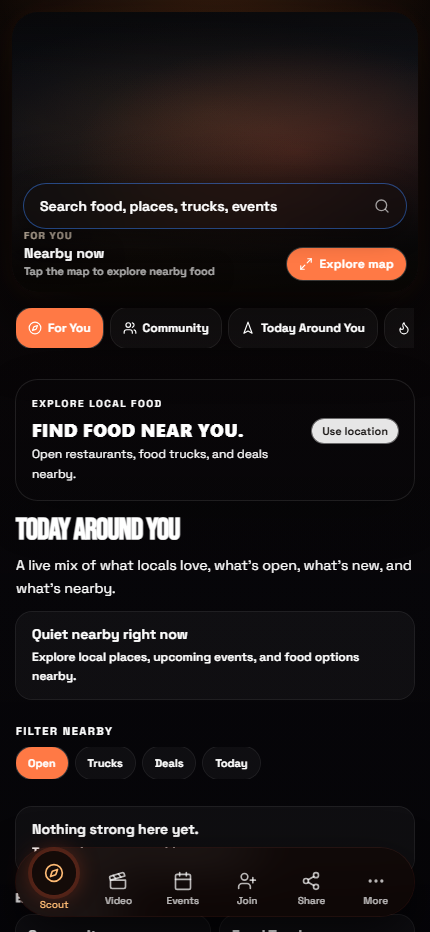
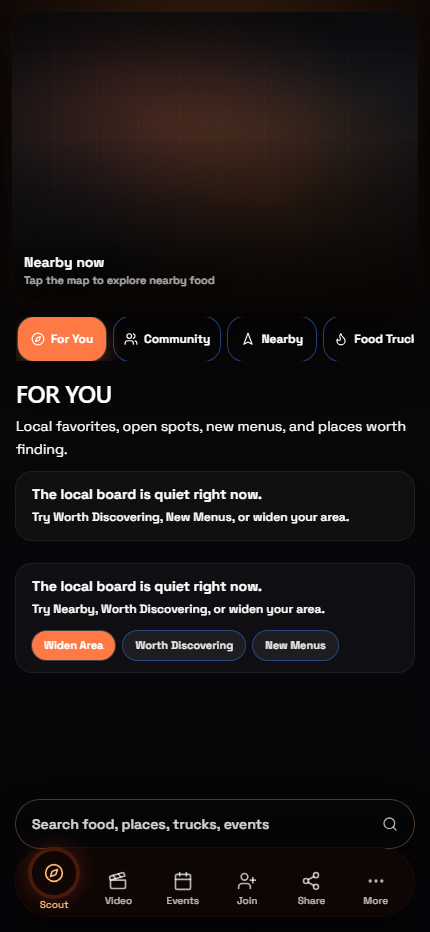
asd

diff --git a/client/src/pages/explore-preview.tsx b/client/src/pages/explore-preview.tsx
@@ -2674,6 +2674,10 @@ export default function ExplorePreview() {
     (sceneWantsNewMenus && localMenuItems.length > 0) ||
     (sceneWantsWorthDiscovering && visibleMoreFoodRestaurants.length > 0) ||
     (sceneWantsCommunity && topLocalFavoriteRestaurants.length > 0);
+  const showForYouWorthFallback =
+    activeSceneLaneId === "for_you" &&
+    sceneMixedFeedItems.length === 0 &&
+    visibleMoreFoodRestaurants.length > 0;
   const collapsedMapSelectedMarker = useMemo(
     () =>
       sceneFilteredMapMarkers.find(
@@ -3023,6 +3027,26 @@ export default function ExplorePreview() {
 
             <SceneMixedFeed items={sceneMixedFeedItems} />
 
+            {showForYouWorthFallback ? (
+              <section className={railSectionClass}>
+                <SectionHeader
+                  title="Worth Discovering"
+                  linkHref={DISCOVERY_LAYERS.restaurants.href}
+                  subtitle="New, quiet, or under-scouted spots nearby."
+                  itemCount={visibleMoreFoodRestaurants.length}
+                />
+                <div className="overflow-x-auto atmo-hide-scrollbar -mr-1">
+                  <ul className="flex gap-4 pr-5" role="list" aria-label="Worth discovering">
+                    {visibleMoreFoodRestaurants.slice(0, 10).map((r) => (
+                      <li key={`for-you-worth-${r.id}`} className={`shrink-0 ${standardCardWidth}`}>
+                        <SavedRestaurantCard restaurant={r} />
+                      </li>
+                    ))}
+                  </ul>
+                </div>
+              </section>
+            ) : null}
+
             {isHighActivity && sceneWantsNearbyNow ? (
               <LocalActivityRail mode={scoutActivityMode} items={visibleLocalActivityItems} />
             ) : null}
@@ -3198,7 +3222,7 @@ export default function ExplorePreview() {
             )}
 
             {/* ── MORE FOOD NEARBY ── */}
-            {showMoreFoodSection && sceneWantsWorthDiscovering && !isLowActivity && (
+            {showMoreFoodSection && sceneWantsWorthDiscovering && !isLowActivity && !showForYouWorthFallback && (
               <section className={isLowActivity ? compactRailSectionClass : railSectionClass}>
                 <SectionHeader
                   title={laneMoreTitle}
@@ -3238,7 +3262,7 @@ export default function ExplorePreview() {
               </section>
             )}
 
-            {showMoreFoodSection && sceneWantsWorthDiscovering && isLowActivity && (
+            {showMoreFoodSection && sceneWantsWorthDiscovering && isLowActivity && !showForYouWorthFallback && (
               <section className={compactRailSectionClass}>
                 <SectionHeader
                   title="Worth Discovering"
@@ -3431,6 +3455,10 @@ function SceneOptionsBar({
   activeSceneLaneId: ScoutSceneLaneId;
   onSceneLaneSelect: (laneId: ScoutSceneLaneId) => void;
 }) {
+  const scrollerRef = useRef<HTMLDivElement | null>(null);
+  useEffect(() => {
+    scrollerRef.current?.scrollTo({ left: 0, behavior: "auto" });
+  }, []);
   const getIcon = (icon: ScoutSceneLane["icon"]) => {
     if (icon === "spark") return <Compass className="h-3.5 w-3.5" aria-hidden="true" />;
     if (icon === "community") return <Users className="h-3.5 w-3.5" aria-hidden="true" />;
@@ -3446,7 +3474,7 @@ function SceneOptionsBar({
 
   return (
     <section className="px-4 pb-4">
-      <div className="overflow-x-auto atmo-hide-scrollbar">
+      <div ref={scrollerRef} className="overflow-x-auto atmo-hide-scrollbar pl-0.5">
         <div className="flex w-max gap-2 pr-2">
           {SCOUT_SCENE_LANES.map((lane) => {
             const isActive = lane.id === activeSceneLaneId;
@@ -3520,7 +3548,7 @@ function ActiveSceneIntro({ laneId }: { laneId: ScoutSceneLaneId }) {
   const activeCopy = laneCopy[laneId] ?? laneCopy.for_you;
   return (
     <section className="px-4 pb-3">
-      <h2 className="text-2xl font-bold tracking-tight text-white">{activeCopy.title}</h2>
+      <h2 className="font-sans text-2xl font-semibold tracking-tight text-white">{activeCopy.title}</h2>
       <p className="mt-1.5 text-sm leading-relaxed text-white/62">
         {activeCopy.subtitle}
       </p>
@@ -3760,9 +3788,9 @@ function QuietNearbyNotice() {
   return (
     <section className="px-4 pb-6">
       <div className="rounded-2xl bg-white/[0.04] px-4 py-3 text-white ring-1 ring-white/10">
-        <p className="text-sm font-black">Quiet nearby right now</p>
+        <p className="text-sm font-black">The local board is quiet right now.</p>
         <p className="mt-1 text-xs font-semibold leading-relaxed text-white/58">
-          Explore local places, upcoming events, and food options nearby.
+          Try Worth Discovering, New Menus, or widen your area.
         </p>
       </div>
     </section>
